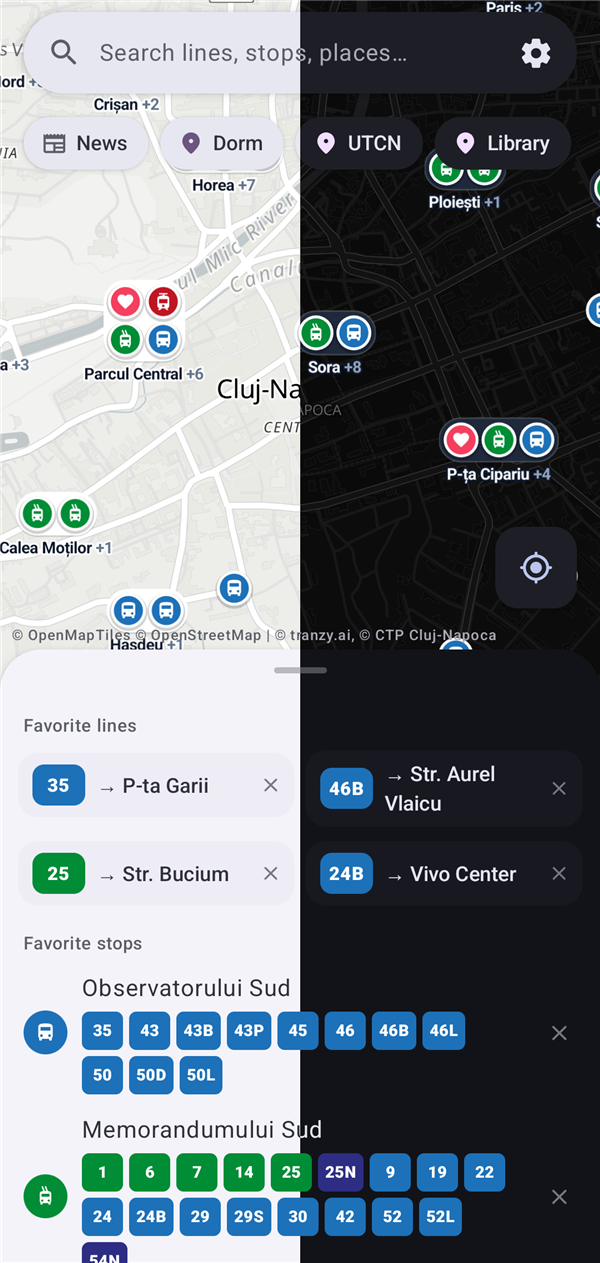
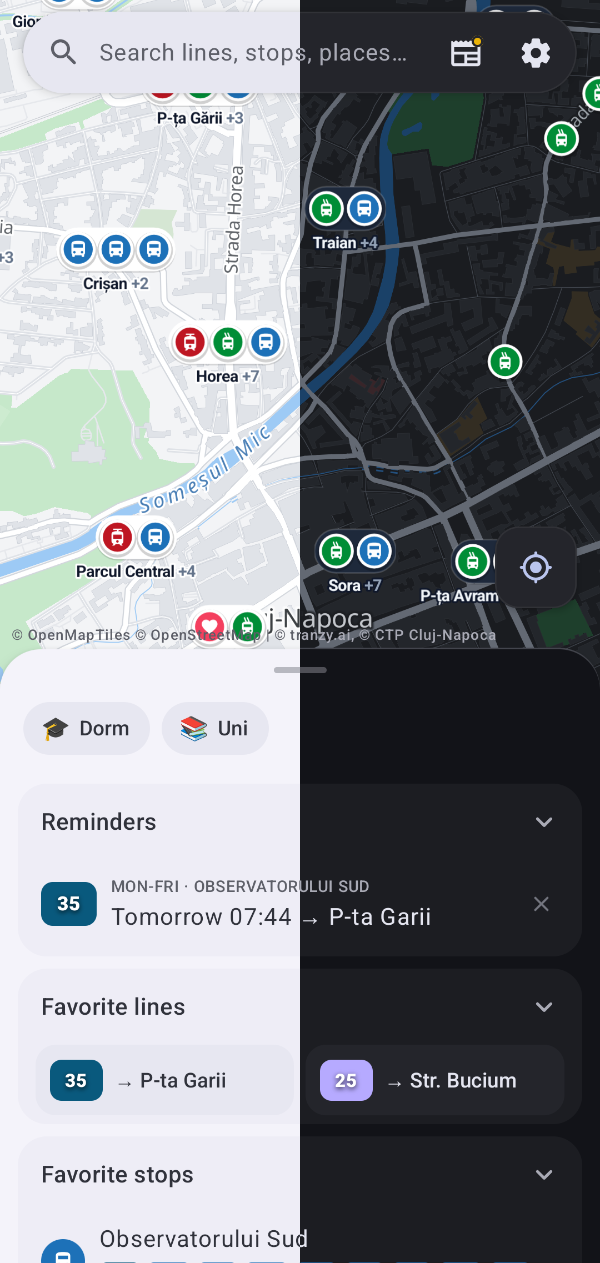
README update

diff --git a/README.md b/README.md
@@ -5,10 +5,10 @@ The [Ce autobuz iau?](https://github.com/bmarian/conexiuni-cluj) bus, tram and t
 **[Get it on Google Play](https://play.google.com/store/apps/details?id=online.bmarian.bus).** Needs Android 8 or newer.
 
 <p align="center">
-  <img src="readme/home.png" width="200" alt="Home in light and dark: the dorm, UTCN and the library saved as places, favorite lines and stops">
-  <img src="readme/stop.png" width="200" alt="The stop by the dorm in light and dark, with the 35 and 46B live on the map">
+  <img src="readme/home.png" width="200" alt="Home in light and dark: the dorm and UTCN saved as places, a weekday reminder for the 35, favorite lines and stops">
+  <img src="readme/stop.png" width="200" alt="The stop by the dorm in light and dark, with the 35 live on the map">
   <img src="readme/line.png" width="200" alt="Line 35 in light and dark, with the next arrivals at every stop">
-  <img src="readme/plan.png" width="200" alt="A trip from the dorm to UTCN in light and dark, with a change from the 40 to the 25">
+  <img src="readme/plan.png" width="200" alt="A trip from the dorm to UTCN in light and dark, straight there on the 35">
 </p>
 
 ## What it does
